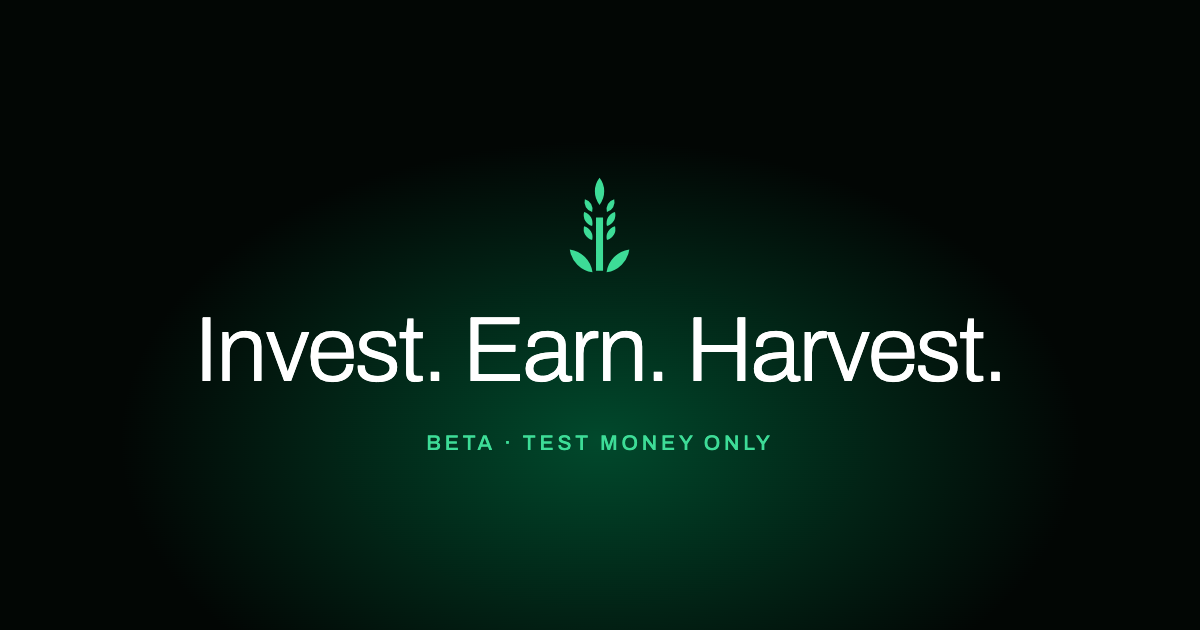
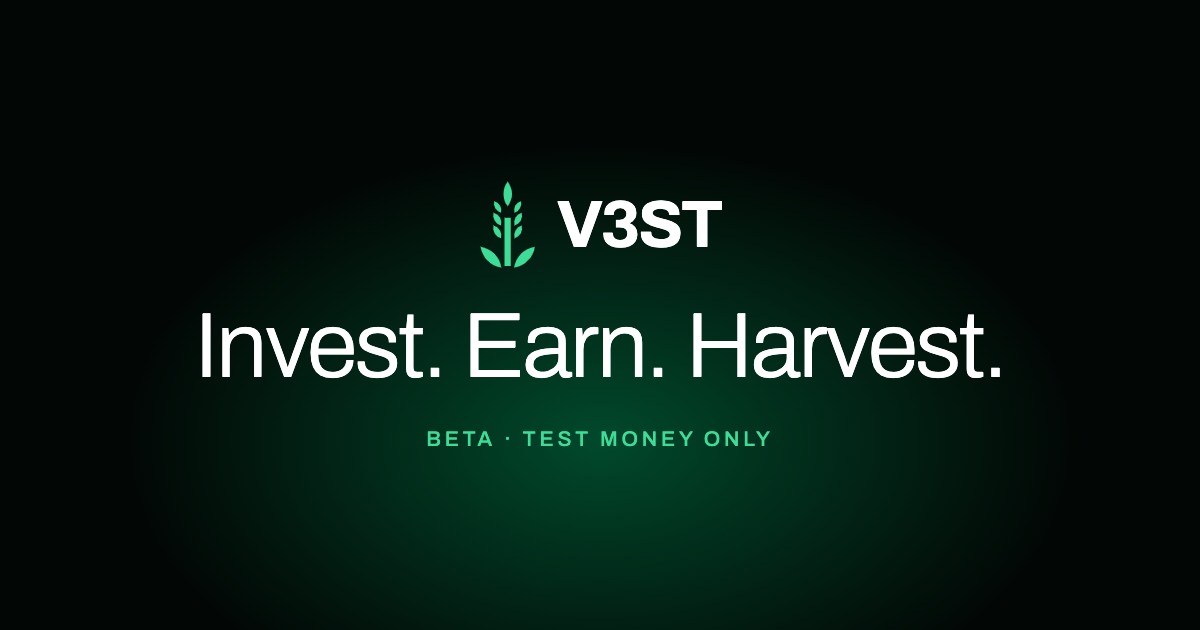
feat: set the grain beside V3ST as the product lockup
The logo is now a lockup, set the way Parcours sets its own: the grain mark
beside the name V3ST as live Archivo 700 text, sized by one font-size (mark
1.35em tall, 0.32em gap). Logo replaces ProductLogo with lockup and mark
variants and an accent switch; the landing header and footer, sign-in,
setup, the phone top bar and the sidebar all use the lockup. The social
image leads with it, scripts/logo.mjs renders docs/brand/v3st-lockup.png,
and the design system, guides and product docs describe it.

diff --git a/src/components/logo.tsx b/src/components/logo.tsx
@@ -1,0 +1,89 @@
+// React stays in scope for the classic JSX transform the Vitest suite renders with.
+import * as React from "react";
+
+import { cn } from "@/utils/cn";
+
+// The V3ST identity: the grain mark beside the product's name, set the way
+// Parcours sets its own Logo.
+//
+// The mark's geometry is docs/brand/v3st-grain.svg, drawn by scripts/logo.mjs;
+// tests/landing/logo.test.ts keeps the two identical.
+//
+// Everything is em-relative, so a caller sizes the whole lockup with one
+// font-size (`<Logo className="text-[18px]" />`): the mark is 1.35em tall and
+// sits 0.32em from the name. The name is live Archivo text at weight 700 and
+// -0.03em, not outlined paths. Archivo is already loaded by the root layout,
+// so the name stays selectable, reads as "V3ST" to a screen reader and follows
+// the type scale. scripts/social-image.mjs and the lockup preview in
+// scripts/logo.mjs repeat these numbers.
+
+const GRAIN_VIEWBOX = "18.62 1.75 62.76 97.5";
+const GRAIN_PATH =
+  "M53.5 96L53.5 43L46.5 43L46.5 96ZM57.39 65.5A11.31 11.31 0 0 1 65.39 51.64A11.31 11.31 0 0 1 57.39 65.5ZM34.61 51.64A11.31 11.31 0 0 1 42.61 65.5A11.31 11.31 0 0 1 34.61 51.64ZM57.39 51.5A11.31 11.31 0 0 1 65.39 37.64A11.31 11.31 0 0 1 57.39 51.5ZM34.61 37.64A11.31 11.31 0 0 1 42.61 51.5A11.31 11.31 0 0 1 34.61 37.64ZM57.35 37.5A10.25 10.25 0 0 1 64.6 24.94A10.25 10.25 0 0 1 57.35 37.5ZM35.4 24.94A10.25 10.25 0 0 1 42.65 37.5A10.25 10.25 0 0 1 35.4 24.94ZM50 30.5A21.93 21.93 0 0 1 50 3.5A21.93 21.93 0 0 1 50 30.5ZM57 97.5A26.59 26.59 0 0 1 79.63 74.87A26.59 26.59 0 0 1 57 97.5ZM20.37 74.87A26.59 26.59 0 0 1 43 97.5A26.59 26.59 0 0 1 20.37 74.87Z";
+
+type MarkProps = {
+  /**
+   * Draw the mark in mint, its colour on V3ST's dark ground. Turn it off for a
+   * single-ink context, where the mark takes `currentColor` like the name.
+   */
+  accent?: boolean;
+  className?: string;
+};
+
+/**
+ * The grain alone, 1.35em tall so it tracks the font-size it sits in.
+ * Decorative: in the lockup the name carries the label, and used bare the
+ * caller owns it (see `Logo`).
+ */
+export function LogoMark({ accent = true, className }: MarkProps) {
+  return (
+    <svg
+      viewBox={GRAIN_VIEWBOX}
+      aria-hidden="true"
+      focusable="false"
+      className={cn("h-[1.35em] w-auto shrink-0", className)}
+    >
+      <MarkPath accent={accent} />
+    </svg>
+  );
+}
+
+// A component rather than a ternary on `className`, so the accented path
+// carries no `fill` attribute for a utility to compete with, and the plain
+// one draws in `currentColor` even where the stylesheet hasn't loaded.
+function MarkPath({ accent }: { accent: boolean }) {
+  if (accent) return <path d={GRAIN_PATH} className="fill-gain" />;
+  return <path d={GRAIN_PATH} fill="currentColor" />;
+}
+
+type LogoProps = MarkProps & {
+  /** `lockup` is the mark beside the name; `mark` is the mark alone. */
+  variant?: "lockup" | "mark";
+};
+
+/**
+ * The lockup by default. Size it with one font-size utility, or with a CSS
+ * class on the landing, where unlayered rules win over utilities.
+ */
+export function Logo({ variant = "lockup", accent = true, className }: LogoProps) {
+  if (variant === "mark") {
+    // Bare, the mark is the name, so the element a caller sizes carries it.
+    return (
+      <span role="img" aria-label="V3ST" className={cn("inline-flex", className)}>
+        <LogoMark accent={accent} />
+      </span>
+    );
+  }
+
+  return (
+    <span
+      className={cn(
+        "text-heading inline-flex items-center gap-[0.32em] text-[19px] leading-none font-bold tracking-[-0.03em]",
+        className,
+      )}
+    >
+      <LogoMark accent={accent} />
+      V3ST
+    </span>
+  );
+}

diff --git a/tests/landing/logo.test.ts b/tests/landing/logo.test.ts
@@ -1,0 +1,52 @@
+import { readFileSync } from "node:fs";
+import path from "node:path";
+
+import { createElement } from "react";
+import { renderToStaticMarkup } from "react-dom/server";
+
+import { describe, expect, it } from "vitest";
+
+import { Logo, LogoMark } from "@/components/logo";
+
+const brandFile = readFileSync(path.join(process.cwd(), "docs/brand/v3st-grain.svg"), "utf8");
+
+function brandAttribute(name: "d" | "viewBox"): string {
+  const match = new RegExp(` ${name}="([^"]+)"`).exec(brandFile);
+  if (match?.[1] === undefined) throw new Error(`docs/brand/v3st-grain.svg has no ${name}`);
+  return match[1];
+}
+
+describe("Logo", () => {
+  it("draws the grain exactly as docs/brand/v3st-grain.svg does", () => {
+    const html = renderToStaticMarkup(createElement(LogoMark));
+    expect(html).toContain(`viewBox="${brandAttribute("viewBox")}"`);
+    expect(html).toContain(`d="${brandAttribute("d")}"`);
+  });
+
+  it("sets the name as live text beside a decorative mark", () => {
+    const html = renderToStaticMarkup(createElement(Logo));
+    expect(html).toMatch(/<\/svg>V3ST<\/span>$/);
+    expect(html).toContain('aria-hidden="true"');
+    expect(html).not.toContain("aria-label");
+  });
+
+  it("labels the mark when it stands alone", () => {
+    const html = renderToStaticMarkup(createElement(Logo, { variant: "mark" }));
+    expect(html).toContain('role="img"');
+    expect(html).toContain('aria-label="V3ST"');
+    expect(html).not.toContain(">V3ST<");
+  });
+
+  it("tints the mark mint by default and drops to one ink without the accent", () => {
+    expect(renderToStaticMarkup(createElement(LogoMark))).toContain('class="fill-gain"');
+    const plain = renderToStaticMarkup(createElement(LogoMark, { accent: false }));
+    expect(plain).toContain('fill="currentColor"');
+    expect(plain).not.toContain("fill-gain");
+  });
+
+  it("lets one font-size class size the whole lockup", () => {
+    const html = renderToStaticMarkup(createElement(Logo, { className: "text-[18px]" }));
+    expect(html).toContain("text-[18px]");
+    expect(html).not.toContain("text-[19px]");
+  });
+});

diff --git a/src/components/app/setup/setup-shell.tsx b/src/components/app/setup/setup-shell.tsx
@@ -2,11 +2,11 @@
 
 import type { ReactNode } from "react";
 
-import { ProductLogo } from "@/components/product-logo";
+import { Logo } from "@/components/logo";
 import { useSignOut } from "@/components/app/signin/use-sign-out";
 import { Badge, Button } from "@/primitives";
 
-// The setup shell: grain, Beta and Sign out, with no tab bar, under the
+// The setup shell: the logo, Beta and Sign out, with no tab bar, under the
 // same faint wash as sign-in.
 export function SetupShell({ children }: { children: ReactNode }) {
   const { signOut } = useSignOut();
@@ -15,7 +15,7 @@ export function SetupShell({ children }: { children: ReactNode }) {
       <div className="mx-auto flex min-h-dvh w-full max-w-2xl flex-col px-4 py-5">
         <div className="flex items-center justify-between gap-3">
           <div className="flex items-center gap-2.5">
-            <ProductLogo className="h-7 w-auto text-gain" />
+            <Logo className="text-[18px]" />
             <Badge>Beta</Badge>
           </div>
           <Button variant="ghost" size="sm" onClick={() => void signOut()}>

diff --git a/src/components/landing/site-footer.tsx b/src/components/landing/site-footer.tsx
@@ -1,6 +1,6 @@
 import Link from "next/link";
 
-import { ProductLogo } from "@/components/product-logo";
+import { Logo } from "@/components/logo";
 
 import { NAV_LINKS } from "./nav-links";
 
@@ -63,7 +63,7 @@ export function SiteFooter(): React.JSX.Element {
           Company names and logos identify the companies whose prices the beta shares track and the
           services V3ST is built to work with. V3ST isn&apos;t affiliated with or endorsed by them.
         </p>
-        <div className="footer-mark-wrap" aria-hidden="true">
+        <div className="footer-logo-wrap" aria-hidden="true">
           <div className="footer-glow">
             <picture>
               <source srcSet="/art/footer-glow.avif" type="image/avif" />
@@ -78,7 +78,7 @@ export function SiteFooter(): React.JSX.Element {
               />
             </picture>
           </div>
-          <ProductLogo className="footer-mark" decorative />
+          <Logo className="footer-lockup" />
         </div>
         <p className="footer-copy">© 2026 V3ST</p>
       </div>

diff --git a/src/components/app/chrome/top-bar.tsx b/src/components/app/chrome/top-bar.tsx
@@ -1,17 +1,17 @@
 import Link from "next/link";
 
-import { ProductLogo } from "@/components/product-logo";
+import { Logo } from "@/components/logo";
 import { Badge } from "@/primitives";
 import { AccountButton } from "./account-button";
 import { NotificationsButton } from "./notifications-button";
 
-// The phone top bar: grain and Beta on the left, bell and account on the
+// The phone top bar: the logo and Beta on the left, bell and account on the
 // right. From 768px only the bell and account show.
 export function TopBar() {
   return (
     <div className="bg-void sticky top-0 z-40 flex h-14 items-center justify-between gap-3 border-b border-stroke px-4">
       <Link href="/home" className="flex min-h-11 items-center gap-2.5 rounded-full md:hidden">
-        <ProductLogo className="h-7 w-auto text-gain" />
+        <Logo className="text-[18px]" />
         <Badge>Beta</Badge>
       </Link>
       <span aria-hidden="true" className="hidden flex-1 md:block" />

diff --git a/src/styles/globals.css b/src/styles/globals.css
@@ -247,10 +247,9 @@
   opacity: var(--nav-cue, 1);
   transform: translateY(calc((1 - var(--nav-cue, 1)) * -160%));
 }
-.header-mark {
-  height: 2rem;
-  width: auto;
-  color: var(--color-gain);
+/* The lockup sizes everything from its font-size: the mark is 1.35em tall. */
+.header-lockup {
+  font-size: 1.375rem;
 }
 .desktop-nav {
   display: flex;
@@ -398,7 +397,7 @@
   font-size: 0.875rem;
   line-height: 1.7;
 }
-.footer-mark-wrap {
+.footer-logo-wrap {
   position: relative;
   margin-top: 4rem;
   display: grid;
@@ -414,11 +413,10 @@
   height: 100%;
   object-fit: cover;
 }
-.footer-mark {
+/* The closing lockup, about 3.5em wide: 290px on a 390px phone, 960px at most. */
+.footer-lockup {
   position: relative;
-  width: auto;
-  height: clamp(8rem, 24vw, 18rem);
-  color: var(--color-gain);
+  font-size: clamp(3.75rem, 21vw, 17rem);
 }
 .footer-copy {
   margin-top: 2rem;

diff --git a/src/components/app/chrome/sidebar.tsx b/src/components/app/chrome/sidebar.tsx
@@ -4,7 +4,7 @@ import Link from "next/link";
 import { usePathname } from "next/navigation";
 
 import { cn } from "@/utils/cn";
-import { ProductLogo } from "@/components/product-logo";
+import { Logo } from "@/components/logo";
 import { Badge } from "@/primitives";
 import { APP_TABS, SETTINGS_ITEM, SIDEBAR_EXTRA, isActive } from "./nav";
 
@@ -15,7 +15,7 @@ export function Sidebar() {
   return (
     <div className="border-stroke bg-void sticky top-0 flex h-dvh w-62 shrink-0 flex-col border-r px-4 py-5">
       <Link href="/home" className="mb-6 flex min-h-11 items-center gap-2.5 px-2">
-        <ProductLogo className="h-8 w-auto text-gain" />
+        <Logo />
         <Badge>Beta</Badge>
       </Link>
       <nav aria-label="App" className="flex flex-1 flex-col gap-1">

diff --git a/src/app/(auth)/signin/page.tsx b/src/app/(auth)/signin/page.tsx
@@ -2,7 +2,7 @@ import type { Metadata } from "next";
 import { redirect } from "next/navigation";
 
 import { env } from "@/env";
-import { ProductLogo } from "@/components/product-logo";
+import { Logo } from "@/components/logo";
 import { Badge } from "@/primitives";
 import { SigninPanel } from "@/components/app/signin/signin-panel";
 import { getCurrentCustomer } from "@/server/app/session";
@@ -27,7 +27,7 @@ export default async function SigninPage({
   return (
     <div className="flex flex-col gap-8">
       <div className="flex items-center gap-2.5">
-        <ProductLogo className="h-8 w-auto text-gain" />
+        <Logo className="text-[22px]" />
         <Badge>Beta</Badge>
       </div>
       <SigninPanel

diff --git a/src/components/landing/site-header.tsx b/src/components/landing/site-header.tsx
@@ -1,6 +1,6 @@
 import Link from "next/link";
 
-import { ProductLogo } from "@/components/product-logo";
+import { Logo } from "@/components/logo";
 import { Badge } from "@/primitives/badge";
 
 import { HeaderCta } from "./header-cta";
@@ -12,7 +12,7 @@ export function SiteHeader(): React.JSX.Element {
     <header className="site-header">
       <div className="header-inner">
         <Link href="/#top" className="header-logo" aria-label="V3ST — back to top">
-          <ProductLogo className="header-mark" decorative />
+          <Logo className="header-lockup" />
           <Badge>Beta</Badge>
         </Link>
         <nav className="desktop-nav" aria-label="Sections">

diff --git a/DESIGN_SYSTEM.md b/DESIGN_SYSTEM.md
@@ -77,8 +77,12 @@ These fail without an error, and each has bitten this page once:
 
 - `public/brands/`, `public/stocks/`: official local marks with `sources.json` provenance (hash, dimensions, treatment, beta status, terms notes where decision 11 applies). Missing file ⇒ letter/name fallback; deleting the file is the whole removal procedure.
 - `public/art/`: original authored artwork (hero glow, light beam, safeguard streaks, join beams, footer glow) generated by `scripts/landing-art.mjs` as AVIF + WebP at explicit dimensions, with hashes in `sources.json`; all `aria-hidden`. The How it works panels are markup, not raster.
-- The [grain mark](docs/brand/v3st-grain.svg) is the product logo. The shared `ProductLogo` renders it in mint on the dark ground. Use 28px height in the phone top bar and setup, and 32px in the landing header, desktop sidebar and sign-in. The landing footer centers the mark above the copyright at a responsive height of 128–288px.
-- The favicon (`/icon.svg`) uses the grain on void and is generated by `scripts/logo.mjs`. The static social image (`/opengraph-image.png`) pairs the grain with the Archivo headline and is generated by `scripts/social-image.mjs`.
+- **The logo is a lockup**, set the way Parcours sets its own: the [grain mark](docs/brand/v3st-grain.svg) beside the name *V3ST* ([preview](docs/brand/v3st-lockup.png)). `Logo` in `src/components/logo.tsx` renders it; `<Logo variant="mark" />` is the mark alone, labelled "V3ST", and `LogoMark` is the decorative mark.
+  - **One font-size sizes it.** Everything is `em`-relative: the mark is 1.35em tall and sits 0.32em from the name. Pass one size utility (`<Logo className="text-[18px]" />`), or a CSS class on the landing, where unlayered rules win over utilities. Never set a height on the mark.
+  - **The name is live text**, Archivo 700 at −0.03em in `heading` white: selectable, read as "V3ST" by screen readers and on the type scale. It is not outlined, so there is no static lockup file; standalone files carry the mark alone.
+  - **The mark is mint** (`fill-gain`). `accent={false}` draws mark and name in one ink (`currentColor`), for signal green, white or mint grounds.
+  - **Sizes:** 22px on sign-in (`.header-lockup` is also 22px on the landing), 19px in the desktop sidebar, 18px in the phone top bar and setup. The landing footer closes on the lockup over its glow at `clamp(3.75rem, 21vw, 17rem)`, about 290px wide on a 390px phone and at most 960px.
+- The favicon (`/icon.svg`) is the grain alone in mint on void, generated by `scripts/logo.mjs`. The static social image (`/opengraph-image.png`) sets the lockup above the Archivo headline and is generated by `scripts/social-image.mjs`.
 
 ## Customer app
 
@@ -90,9 +94,9 @@ The beta customer app (`/signin`, `/setup` and the `(app)` group) shares the lan
 - **Labels.** Group labels (*Total value*, *Coming up*, *Earlier*) are 13px medium muted sentence case. The 11px tracked uppercase style belongs to the Beta chip only; nothing tracked or uppercase sits above a heading.
 - **Shape.** Pill buttons at 44px minimum (48px `lg`), 15px semibold. 48px fields with 16px corners, `surface` fill and the `control-border` border; the amount field is 64px tall at `type-app-amount` with a muted ₦ prefix. Lists are hairline-separated rows (`stroke` bottom border, 12px vertical padding, 44px minimum). Cards only for transfer details, Earn products and the settings groups, never nested: 16px corners, `stroke` border, 20px inner padding, `surface` fill (the transfer card sits on `surface-raised`). Choice rows (radio options, document rows) are 44px bordered rows on `surface` at 24px corners, their border turning signal when checked. Modal sheets at 28px corners.
 - **Dialogs.** `src/primitives/dialog.tsx` is the one modal: a bottom sheet below 640px (`max-h-[92dvh]`, top hairline, safe-area padding), centred and at most 480px wide from `sm:`, on `surface` over `void` at 70%, 24px padding, a 44px close button top-right. The title is `type-app-heading`; the description (muted, 14px) names the current step, and a step never adds a second heading. Focus returns to the element that opened the dialog, because most app dialogs open from state without a trigger. Short jobs open here rather than on a new page.
-- **Chrome.** The `(app)` layout mounts the chrome once. A sticky 56px top bar on `void` with a hairline foot places the grain mark and *Beta* on the left below 768px. A 44px bell (with an 8px gain unread dot) and a 32px initials avatar on `surface-raised` sit on the right at every width. Below 768px a fixed 64px tab bar (Home, Stocks, Cash, Earn; 20px Phosphor icon over a 13px label; active is heading text with a gain icon) plus the safe-area inset. From 768px a 248px sidebar with the four places, Activity, and Settings at its foot, items as 44px pills with the active one on `surface-raised`. One content column at most 720px, 16px gutters (32px from 768px). A skip link to `#app-main` comes first.
+- **Chrome.** The `(app)` layout mounts the chrome once. A sticky 56px top bar on `void` with a hairline foot places the logo and *Beta* on the left below 768px. A 44px bell (with an 8px gain unread dot) and a 32px initials avatar on `surface-raised` sit on the right at every width. Below 768px a fixed 64px tab bar (Home, Stocks, Cash, Earn; 20px Phosphor icon over a 13px label; active is heading text with a gain icon) plus the safe-area inset. From 768px a 248px sidebar with the four places, Activity, and Settings at its foot, items as 44px pills with the active one on `surface-raised`. One content column at most 720px, 16px gutters (32px from 768px). A skip link to `#app-main` comes first.
 - **Page header.** Optional 44px back arrow, the `type-app-title` `h1`, optional actions on the right. One `h1` per page.
-- **Setup.** The setup shell carries the grain mark, *Beta* and *Sign out*. Progress sits below the step's heading, never as a kicker above it: on phones a row of 2px segments (signal done/current, stroke ahead) with "Step n of N" in subtle 13px; from 768px a step list beside the content with filled signal check nodes for done steps.
+- **Setup.** The setup shell carries the logo, *Beta* and *Sign out*. Progress sits below the step's heading, never as a kicker above it: on phones a row of 2px segments (signal done/current, stroke ahead) with "Step n of N" in subtle 13px; from 768px a step list beside the content with filled signal check nodes for done steps.
 - **Motion.** Modals open in 260ms and close in 170ms ease-out, sliding up on phones and fading under `prefers-reduced-motion`. The one authored moment is the line crossing: an item moving from *Coming up* to *Earlier* slides across the *Now* pill in 240ms ease-out (`motion` `layout="position"` + `layoutId`), reduced to a 200ms fade under reduced motion. Processing nodes pulse, motion-safe only. Buttons press to 0.98. No page-load choreography, no fluid background, no cursor follower, no pinned scroll.
 - **Home.** "Total value" at `type-app-figure` over today's change and "Cash … available", the *Add money* (signal) and *Invest* (outline) pills, one beta line, then the money line, with *See all activity* at the end and the holdings list under the fold. Today's change is gain when positive, loss when negative, and muted and unsigned at zero; a null change, or a null total, drops the line. A null total renders "—" with an honesty note beneath it, and a partial total says which prices it leaves out.
 - **The money line.** A 2px signal spine in a 44px gutter, dashed above the marker and solid below. The *Now · HH:MM* pill (Lagos time, refreshed each minute) sits on a signal hairline: `surface-raised` fill, signal border, gain 13px semibold tabular text. *Coming up* above it (Friday payout first, then in-progress items sorted by deadline, then *Needs you*), *Earlier* below. Each row is a link with a 12px node on the spine: waiting and processing are gain-ringed on `void` with the halo, *Needs you* is heading-ringed, done is filled signal, failed is loss-ringed, cancelled is subtle-ringed; non-obvious tones carry a screen-reader label. Row detail is 13px muted: finished rows carry their Lagos time ("Today, 19:09", "Yesterday, 08:15", "Mon 16 Nov, 12:00"), unpaid transfers count down to their deadline, and buys waiting for prices say "until" their expiry.

diff --git a/docs/brand/README.md b/docs/brand/README.md
@@ -1,6 +1,17 @@
 # V3ST logo
 
-Grain is the product logo. The landing and app use its mint treatment, as do the favicon and social image. The original green artwork is in [v3st-grain.svg](v3st-grain.svg). The preview records the three options drawn on 2026-11-20, alongside the former [V3ST wordmark](v3st-wordmark.svg).
+The product logo is a lockup: the grain mark beside the name *V3ST*, set the way Parcours sets its own.
+
+![The lockup large on void, at the 22, 19 and 18px sizes the product uses, and in one ink on signal green, white and mint](v3st-lockup.png)
+
+- **In the product** it is `Logo` in `src/components/logo.tsx`. One font-size sizes the whole lockup: the mark is 1.35em tall and sits 0.32em from the name.
+- **The name is live text**, Archivo 700 at −0.03em, so it stays selectable and screen readers read it as "V3ST". Nothing is outlined, so there is no static lockup file. Use the preview above to see it, and the mark files for anything outside the product.
+- **The mark is mint** (`#3DDC97`) beside a white name on the dark ground. On signal green, white or mint, draw both in one ink (`accent={false}`).
+- **The mark alone** is the favicon (`src/app/icon.svg`, mint on void). The original green artwork is [v3st-grain.svg](v3st-grain.svg). The social image sets the lockup above the headline.
+
+## How the grain was chosen
+
+The preview below records the three options drawn on 2026-11-20, alongside the former [V3ST wordmark](v3st-wordmark.svg).
 
 ![The three options on signal green and on void, small, as app icons and beside the wordmark](v3st-logo-options.png)
 
@@ -30,4 +41,4 @@ Each mark is drawn on a 100-unit square. Each file's viewBox is cropped to the d
 node scripts/logo.mjs
 ```
 
-The script also generates the grain favicon. Both this generator and `scripts/social-image.mjs` render in Playwright's Chromium. Set `LANDING_CHROMIUM_PATH` to use a specific browser binary.
+The script also generates the grain favicon and the lockup preview, which loads Archivo from Google Fonts and refuses to render with a fallback face. Both this generator and `scripts/social-image.mjs` render in Playwright's Chromium. Set `LANDING_CHROMIUM_PATH` to use a specific browser binary.

diff --git a/.impeccable/surfaces/src-app-app-layout-tsx.md b/.impeccable/surfaces/src-app-app-layout-tsx.md
@@ -29,7 +29,7 @@ OWN-WORLD: The landing's world at Operate density: void ground, surface and rais
 
 STORY: A tester opens the app, reads their total and what is moving (an unpaid transfer, a buy waiting for prices, Friday's payout), acts on what needs them, starts the next job in a modal, and trusts that every value on screen is known or plainly marked unknown.
 
-FIRST VIEWPORT: Home at 390×844. Top bar: V3ST grain mark and Beta chip left; bell with unread dot and initials avatar right. Total value at 40px weight 300, today's change in mint, cash available; Add money (signal pill) and Invest (outline pill); one beta line. Then the money line: a 2px signal spine in the left gutter, dashed above a "Now · 14:20" pill on a hairline and solid below it; Coming up rows with mint-haloed nodes above, Earlier rows with filled nodes below, See all activity. Bottom tabs: Home, Stocks, Cash, Earn.
+FIRST VIEWPORT: Home at 390×844. Top bar: V3ST logo (grain mark beside the name) and Beta chip left; bell with unread dot and initials avatar right. Total value at 40px weight 300, today's change in mint, cash available; Add money (signal pill) and Invest (outline pill); one beta line. Then the money line: a 2px signal spine in the left gutter, dashed above a "Now · 14:20" pill on a hairline and solid below it; Coming up rows with mint-haloed nodes above, Earlier rows with filled nodes below, See all activity. Bottom tabs: Home, Stocks, Cash, Earn.
 
 FORM: Money line — a statement read as one live timeline; position 5 of 7 on the ordered list; seed:bc21f5b0c062fffb
 
